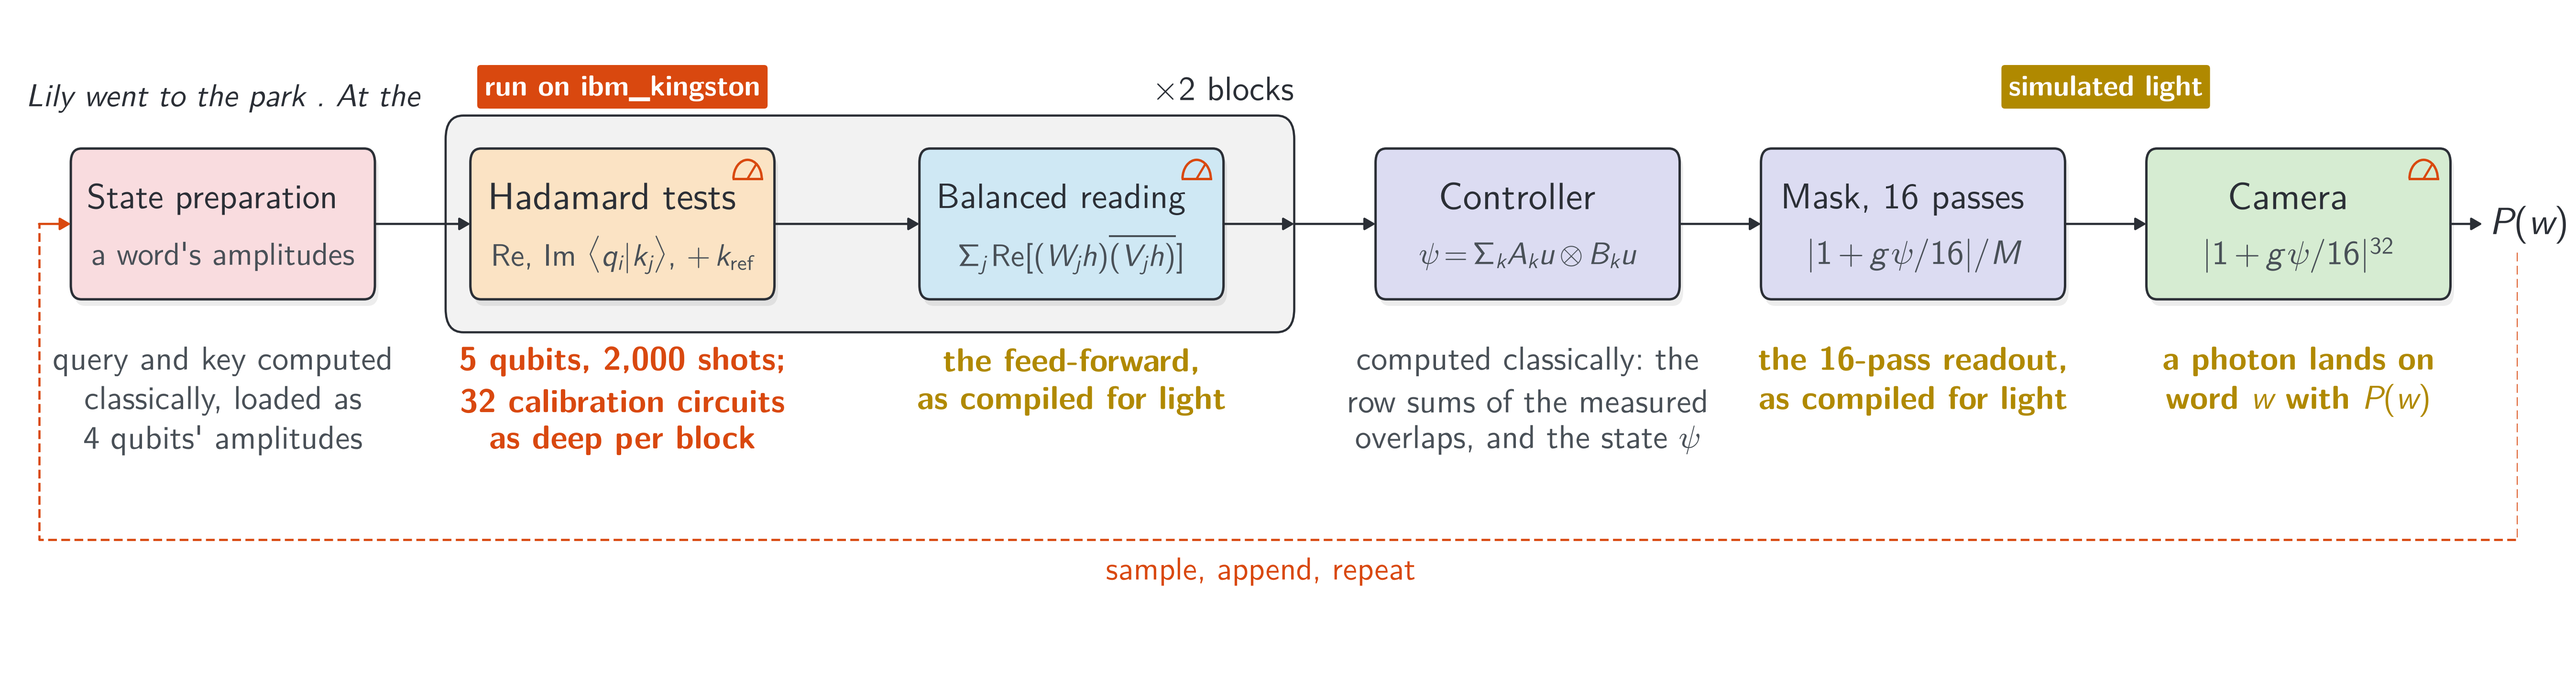
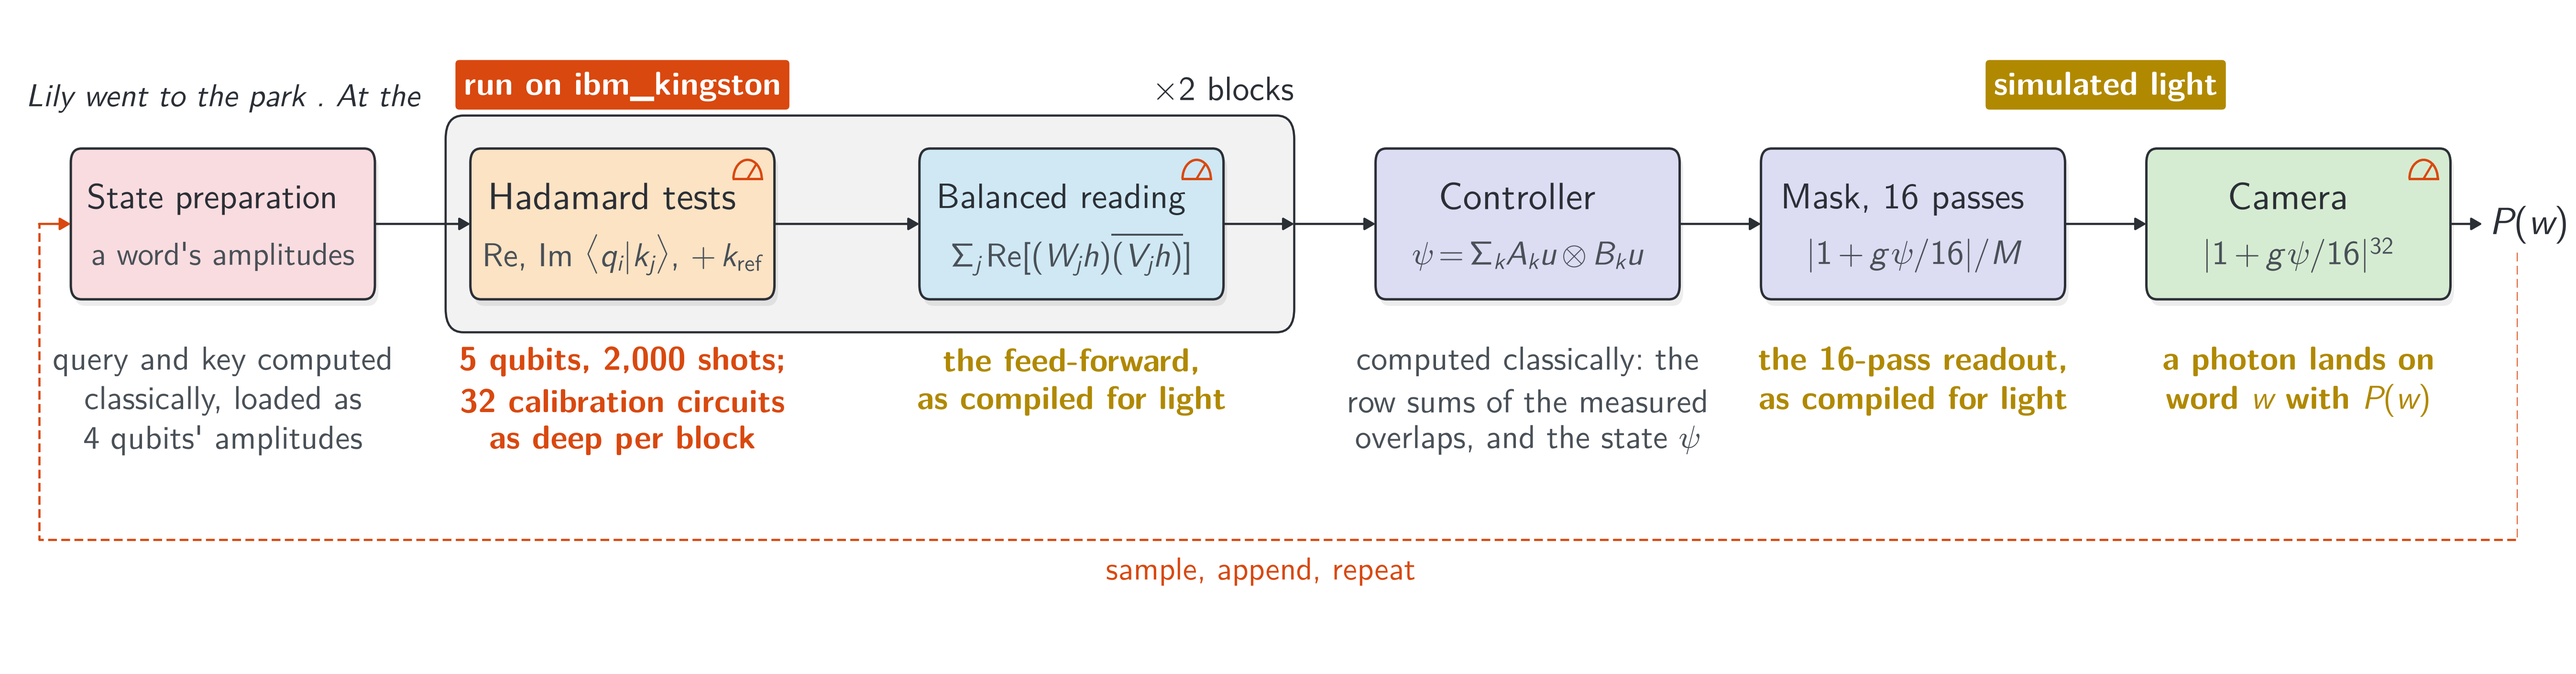
Figures: the smallest labels raised to at least 5 pt printed
Fig. 1 (docs/overview.png), Fig. 5 (docs/born_qubits.png) and Fig. 6's bar values. The
scripts follow the paper's.

diff --git a/src/fig_born_qubits.py b/src/fig_born_qubits.py
@@ -68,9 +68,9 @@ ax.add_patch(FancyBboxPatch((XS[1] - BW / 2 - 0.35, Y - BH / 2 - 0.35), L2 + 0.4
                             BH + 0.7, boxstyle="round,pad=0,rounding_size=0.25", fc=F["blk"], ec=INK, lw=1.1, zorder=1))
 ax.text(L2 + 0.4, Y + BH / 2 + 0.62, r"$\times 2$ blocks", ha="right", va="center", fontsize=17, color=INK)
 box(XS[0], "emb", "State preparation", "a word's amplitudes", fs=17.5, sfs=16)
-box(XS[1], "att", "Hadamard tests", r"Re, Im $\langle q_i|k_j\rangle$, $+\,k_\mathrm{ref}$", meas=True, sfs=15.5)
-box(XS[2], "ff", "Balanced reading", r"$\Sigma_j\,$Re$[(W_jh)\overline{(V_jh)}]$", meas=True, fs=17.5, sfs=15.5)
-box(XS[3], "lin", "Controller", r"$\psi=\Sigma_k A_ku\otimes B_ku$", sfs=15.5)
+box(XS[1], "att", "Hadamard tests", r"Re, Im $\langle q_i|k_j\rangle$, $+\,k_\mathrm{ref}$", meas=True, sfs=16.5)
+box(XS[2], "ff", "Balanced reading", r"$\Sigma_j\,$Re$[(W_jh)\overline{(V_jh)}]$", meas=True, fs=17.5, sfs=16.5)
+box(XS[3], "lin", "Controller", r"$\psi=\Sigma_k A_ku\otimes B_ku$", sfs=16.5)
 box(XS[4], "lin", "Mask, 16 passes", r"$|1+g\,\psi/16|/M$", fs=18)
 box(XS[5], "out", "Camera", r"$|1+g\,\psi/16|^{32}$", meas=True)
 for a, b in ((XS[0] + BW / 2, XS[1] - BW / 2), (XS[1] + BW / 2, XS[2] - BW / 2), (XS[2] + BW / 2, L2 + 0.4),
@@ -87,9 +87,9 @@ ax.plot([XS[5] + BW / 2 + 0.95, XS[5] + BW / 2 + 0.95, xl, xl], [Y - 0.3, yb, yb
 arrow(xl, XS[0] - BW / 2, color=ACCENT)
 ax.text((XS[0] + XS[5]) / 2, yb - 0.32, "sample, append, repeat", ha="center", va="center", fontsize=16,
         color=ACCENT)
-ax.text(XS[1], Y + BH / 2 + 0.5, "run on ibm_kingston", ha="center", va="bottom", fontsize=14.5, color="white",
+ax.text(XS[1], Y + BH / 2 + 0.5, "run on ibm_kingston", ha="center", va="bottom", fontsize=16.5, color="white",
         fontweight="bold", zorder=8, bbox=dict(boxstyle="round,pad=0.25,rounding_size=0.12", fc=ACCENT, ec="none"))
-ax.text((XS[4] + XS[5]) / 2, Y + BH / 2 + 0.5, "simulated light", ha="center", va="bottom", fontsize=14.5,
+ax.text((XS[4] + XS[5]) / 2, Y + BH / 2 + 0.5, "simulated light", ha="center", va="bottom", fontsize=16.5,
         color="white", fontweight="bold", zorder=8,
         bbox=dict(boxstyle="round,pad=0.25,rounding_size=0.12", fc=LIGHT, ec="none"))
 note(XS[0], "query and key computed\nclassically, loaded as\n4 qubits' amplitudes")

diff --git a/src/fig_overview.py b/src/fig_overview.py
@@ -181,10 +181,10 @@ masked = np.ma.masked_array(wfull, np.concatenate([future, np.zeros((L, 1), bool
 cm = att_cmap.copy()
 cm.set_bad("#cfd4da")                                              # light grey: masked, not a small weight
 ax.imshow(masked, cmap=cm, aspect="auto", interpolation="nearest")
-ax.set_xticks([]), ax.set_yticks(range(L), toks, fontsize=14.5, color=MUTED)
+ax.set_xticks([]), ax.set_yticks(range(L), toks, fontsize=15, color=MUTED)
 ax.tick_params(length=0, pad=2)
 [s.set_color(LINE) for s in ax.spines.values()]
-ax.text(L, -0.75, "ref", ha="center", va="bottom", fontsize=13.5, color=MUTED)
+ax.text(L, -0.75, "ref", ha="center", va="bottom", fontsize=14.5, color=MUTED)
 head(ax, "Born\nattention", "$|\\langle q_i|k_j\\rangle|^2$\n/ row sum", above=0.1)
 arrow(0.325, 0.34, ym)
 ax = axes(0.355, ys, SW, SH, off=False)

diff --git a/src/fig_device.py b/src/fig_device.py
@@ -42,7 +42,7 @@ for ax, (slug, title, foot, fc) in zip(axs, RUNS):
     ax.bar(x + 0.19, dv, 0.36, color=ACCENT, label="ibm_kingston, 95 % shot noise",
            yerr=np.vstack([dv - ci[:, 0], ci[:, 1] - dv]).clip(min=0), ecolor=INK, error_kw=dict(lw=1.0, capsize=3))
     for k in range(len(W)):
-        fsz = 9.5 if len(W) > 3 else 11.5                    # four words in a panel: smaller, still centred
+        fsz = 11.5                                           # bar values: about 5.8 pt printed
         ax.text(x[k] - 0.19, ex[k] + 0.015, f"{ex[k]:.3f}", ha="center", va="bottom", fontsize=fsz, color=MUTED)
         ax.text(x[k] + 0.19, ci[k, 1] + 0.015, f"{dv[k]:.3f}", ha="center", va="bottom", fontsize=fsz, color=ACCENT)
     ax.set_xticks(x, W, fontsize=13.5, color=INK)
